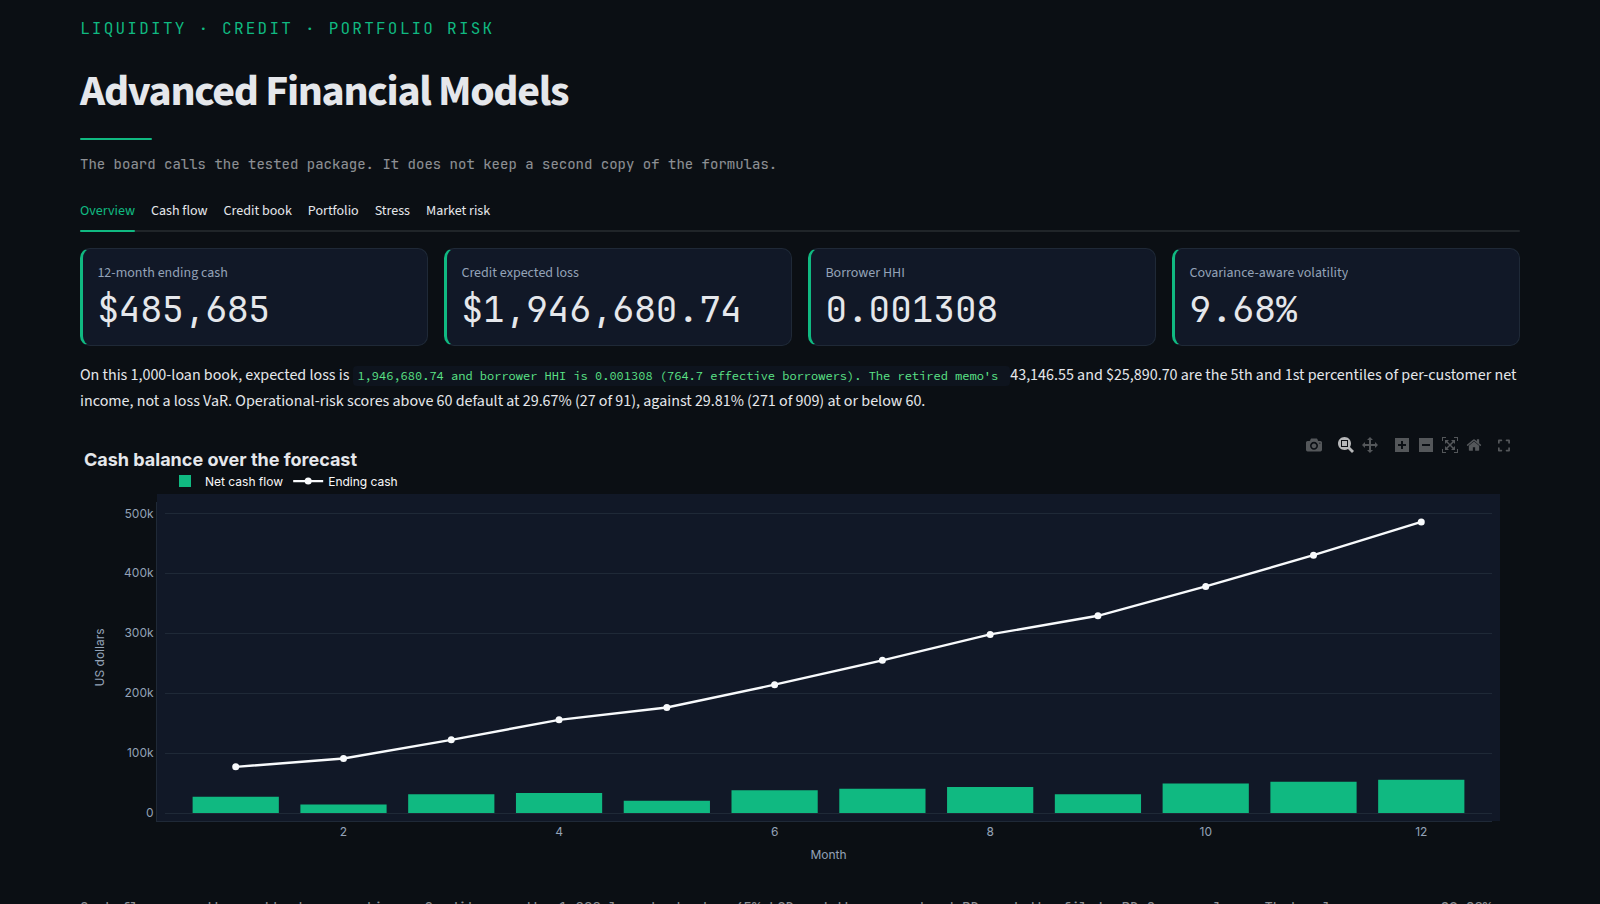
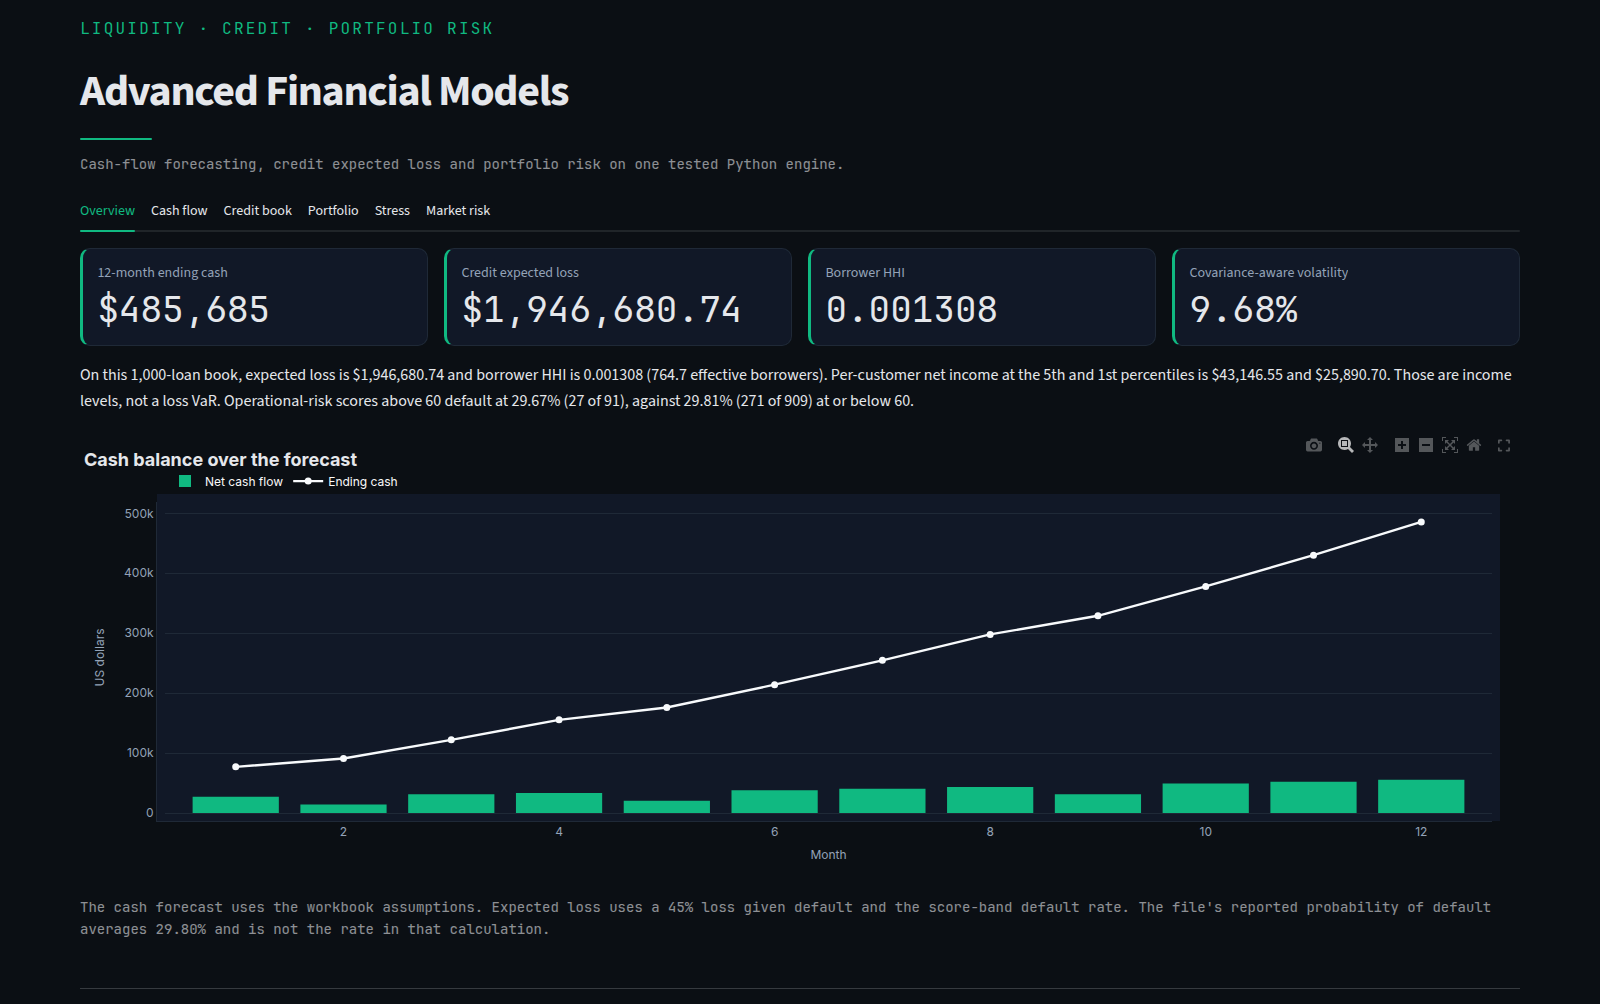
Stop Streamlit from rendering currency as math.
Escape dollar signs in dashboard markdown, and replace the developer-facing header and credit-book lines with employer copy. Recapture the dark dashboard screenshot from that run.

diff --git a/dashboard/app.py b/dashboard/app.py
@@ -67,6 +67,11 @@ def money(value: float, *, decimals: int = 0) -> str:
     return f"${value:,.{decimals}f}"
 
 
+def prose(text: str) -> str:
+    """Keep currency signs as text. Streamlit markdown treats $...$ as LaTeX."""
+    return text.replace("$", r"\$")
+
+
 def percent(value: float) -> str:
     return f"{value:.2%}"
 
@@ -134,7 +139,10 @@ def render_header() -> None:
     st.title("Advanced Financial Models")
     st.markdown('<div class="afm-rule"></div>', unsafe_allow_html=True)
     st.caption(
-        "The board calls the tested package. It does not keep a second copy of the formulas."
+        prose(
+            "Cash-flow forecasting, credit expected loss and portfolio risk "
+            "on one tested Python engine."
+        )
     )
 
 
@@ -157,12 +165,14 @@ def render_overview() -> None:
     columns[2].metric("Borrower HHI", f"{concentration.herfindahl_hirschman_index:.6f}")
     columns[3].metric("Covariance-aware volatility", percent(portfolio.volatility))
 
-    st.markdown(format_credit_book_decision(credit, concentration, audit))
+    st.markdown(prose(format_credit_book_decision(credit, concentration, audit)))
     show(cash_flow_plotly(cash), key="overview-cash")
     st.caption(
-        "Cash flow uses the workbook assumptions. Credit uses the 1,000-loan book at a 45% LGD "
-        "and the score-band PD, not the file's PD_Score column. "
-        f"That column averages {audit.average_reported_pd:.2%}."
+        prose(
+            "The cash forecast uses the workbook assumptions. Expected loss uses a 45% loss given "
+            "default and the score-band default rate. The file's reported probability of default "
+            f"averages {audit.average_reported_pd:.2%} and is not the rate in that calculation."
+        )
     )
 
 
@@ -186,7 +196,9 @@ def render_cash_flow() -> None:
     metrics[2].metric("Minimum cash", money(forecast.minimum_cash_balance))
     metrics[3].metric("Average monthly net cash flow", money(forecast.average_monthly_net_cash_flow))
     show(cash_flow_plotly(forecast), key="cash-flow-chart")
-    st.caption("NPV discounts each month at the effective monthly rate from the 10% annual assumption.")
+    st.caption(
+        prose("NPV discounts each month at the effective monthly rate from the 10% annual assumption.")
+    )
     frame = pd.DataFrame(
         {
             "Month": [period.month for period in forecast.periods],
@@ -210,8 +222,10 @@ def render_cash_flow() -> None:
 def render_credit() -> None:
     st.subheader("Credit book")
     st.caption(
-        "1,000 loans from data/portfolio_data.csv. Borrower is Customer_ID. "
-        "Expected loss uses the score-band PD."
+        prose(
+            "1,000 loans. Expected loss uses the score-band probability of default, "
+            "not the probability stored on each row."
+        )
     )
     loss_given_default = st.slider("Loss given default", 0.0, 100.0, 45.0, 1.0) / 100.0
     loans = loans_from_credit_book()
@@ -237,7 +251,7 @@ def render_credit() -> None:
         money(checked.expected_loss, decimals=2),
         help="100,000 exposure times the 15% band PD times the selected LGD.",
     )
-    st.markdown(format_credit_book_decision(summary, concentration, audit))
+    st.markdown(prose(format_credit_book_decision(summary, concentration, audit)))
     show(credit_ratings_plotly(summary, concentration), key="credit-ratings")
     rows = pd.DataFrame(
         [
@@ -270,9 +284,11 @@ def render_credit() -> None:
 def render_portfolio() -> None:
     st.subheader("Portfolio")
     st.caption(
-        "The correlation matrix is the bundled one-factor illustration for these six sleeves. "
-        "It is not an estimate from market history. Weights that do not sum to 100% are rescaled, "
-        "and the rescale is shown below."
+        prose(
+            "The correlation matrix is a one-factor illustration for these six sleeves. "
+            "It is not an estimate from market history. Weights that do not sum to 100% are rescaled, "
+            "and the rescale is shown below."
+        )
     )
     edited = st.data_editor(
         portfolio_frame(),
@@ -284,7 +300,9 @@ def render_portfolio() -> None:
     n_portfolios = st.slider("Simulated portfolios", 1_000, 20_000, 8_000, 1_000)
     weight_sum = float(edited["Weight %"].sum())
     if abs(weight_sum - 100.0) > 0.05:
-        st.warning(f"Entered weights sum to {weight_sum:.2f}%. Analysis uses weights rescaled to 100%.")
+        st.warning(
+            prose(f"Entered weights sum to {weight_sum:.2f}%. Analysis uses weights rescaled to 100%.")
+        )
     try:
         assets = assets_from_frame(edited)
         covariance = covariance_from_correlation(
@@ -365,7 +383,7 @@ def render_stress() -> None:
     st.subheader("Stress and Monte Carlo")
     left, right = st.columns(2)
     with left:
-        st.markdown("**Liquidity**")
+        st.markdown(prose("**Liquidity**"))
         revenue_multiplier = st.slider("Revenue level", 50.0, 120.0, 80.0, 5.0) / 100.0
         growth_delta = st.slider("Monthly growth shock", -10.0, 5.0, -3.0, 0.5) / 100.0
         opex_delta = st.slider("Operating-expense shock", -10.0, 30.0, 10.0, 1.0) / 100.0
@@ -392,8 +410,10 @@ def render_stress() -> None:
                 key="stress-cash",
             )
 
-        st.markdown("**Credit**")
-        st.caption("PD and LGD multipliers apply to the 1,000-loan book and are capped at 100%.")
+        st.markdown(prose("**Credit**"))
+        st.caption(
+            prose("Probability of default and loss given default are scaled on the 1,000-loan book and capped at 100%.")
+        )
         pd_multiplier = st.slider("PD multiplier", 0.5, 4.0, 1.75, 0.25)
         lgd_multiplier = st.slider("LGD multiplier", 0.5, 2.5, 1.25, 0.25)
         credit_stress = stress_credit_portfolio(
@@ -412,7 +432,7 @@ def render_stress() -> None:
         )
 
     with right:
-        st.markdown("**Terminal wealth**")
+        st.markdown(prose("**Terminal wealth**"))
         horizon = st.slider("Horizon (years)", 1, 30, 10)
         simulations = st.slider("Monte Carlo paths", 1_000, 20_000, 8_000, 1_000)
         assets = workbook_balanced_portfolio()
@@ -434,15 +454,17 @@ def render_stress() -> None:
         tails[0].metric("5th percentile", money(result.percentile_05))
         tails[1].metric("95th percentile", money(result.percentile_95))
         show(monte_carlo_plotly(result), key="monte-carlo")
-        st.caption("Loss means terminal value below the $1,000,000 starting investment.")
+        st.caption(prose("Loss means terminal value below the $1,000,000 starting investment."))
 
 
 def render_market() -> None:
     st.subheader("Market risk")
     st.caption(
-        "Upload adjusted closes, run the worked example, or download with yfinance. "
-        "The worked example is a constructed price path, not a market history. "
-        "Missing prices are dropped, not filled forward."
+        prose(
+            "Upload adjusted closes, run the worked example, or download prices. "
+            "The worked example is a constructed price path, not a market history. "
+            "Rows with a missing price are dropped."
+        )
     )
     source = st.radio(
         "Price source",
@@ -473,7 +495,9 @@ def render_market() -> None:
         prices = st.session_state.get("downloaded_prices")
 
     if prices is None:
-        st.info("Choose a price source to calculate returns, drawdown, VaR, and a rebalanced backtest.")
+        st.info(
+            prose("Choose a price source to calculate returns, drawdown, VaR, and a rebalanced backtest.")
+        )
         return
 
     try:
@@ -502,7 +526,7 @@ def render_market() -> None:
         )
     weight_total = float(sum(weights))
     if abs(weight_total - 1.0) > 1e-9:
-        st.warning(f"Weights sum to {weight_total:.2f}. Rescale them to 1.00 to run the backtest.")
+        st.warning(prose(f"Weights sum to {weight_total:.2f}. Rescale them to 1.00 to run the backtest."))
         return
 
     sample_periods = len(returns)
@@ -519,8 +543,10 @@ def render_market() -> None:
     )
     if sample_periods < 60:
         st.caption(
-            f"This sample has {sample_periods} returns. "
-            "The annualization factor stays on the sample length unless you change periods per year."
+            prose(
+                f"This sample has {sample_periods} returns. "
+                "The annualization factor stays on the sample length unless you change periods per year."
+            )
         )
     portfolio_returns = portfolio_return_series(returns, weights)
     performance = performance_summary(
@@ -571,10 +597,12 @@ def render_market() -> None:
         },
     )
     st.caption(
-        "VaR and expected shortfall are per-period loss fractions from the worst "
-        "ceil((1 − 95%) × n) returns. A negative loss means that point was a gain. "
-        "Sharpe and Sortino use a 3% risk-free rate on the same per-period threshold. "
-        "The backtest charges 5 bps of one-way turnover."
+        prose(
+            "VaR and expected shortfall are per-period loss fractions from the worst "
+            "ceil((1 − 95%) × n) returns. A negative loss means that point was a gain. "
+            "Sharpe and Sortino use a 3% risk-free rate on the same per-period threshold. "
+            "The backtest charges 5 bps of one-way turnover."
+        )
     )
 
 
@@ -597,5 +625,5 @@ with market_tab:
 
 st.divider()
 st.caption(
-    "Educational portfolio project. Not investment, lending, accounting, or financial advice."
+    prose("Educational portfolio project. Not investment, lending, accounting, or financial advice.")
 )

diff --git a/src/financial_models/loan_book.py b/src/financial_models/loan_book.py
@@ -161,7 +161,7 @@ def format_credit_book_decision(
     concentration: CreditConcentrationSummary,
     audit: CreditBookMemoAudit,
 ) -> str:
-    """One decision line: library EL and HHI, plus the memo corrections."""
+    """Expected loss, concentration, and the income figures that are not a loss VaR."""
     above = audit.default_rate_operational_risk_above_60
     below = audit.default_rate_operational_risk_at_or_below_60
     return (
@@ -169,9 +169,9 @@ def format_credit_book_decision(
         f"${summary.total_expected_loss:,.2f} and borrower HHI is "
         f"{concentration.herfindahl_hirschman_index:.6f} "
         f"({concentration.effective_borrower_count:.1f} effective borrowers). "
-        f"The retired memo's ${audit.net_income_p05:,.2f} and "
-        f"${audit.net_income_p01:,.2f} are the 5th and 1st percentiles of "
-        f"per-customer net income, not a loss VaR. Operational-risk scores "
+        f"Per-customer net income at the 5th and 1st percentiles is "
+        f"${audit.net_income_p05:,.2f} and ${audit.net_income_p01:,.2f}. "
+        f"Those are income levels, not a loss VaR. Operational-risk scores "
         f"above 60 default at {above:.2%} "
         f"({audit.default_count_operational_risk_above_60} of "
         f"{audit.count_operational_risk_above_60}), against {below:.2%} "

diff --git a/tests/test_credit_book.py b/tests/test_credit_book.py
@@ -78,6 +78,7 @@ class CreditBookAdapterTests(unittest.TestCase):
         self.assertIn("$43,146.55", line)
         self.assertIn("$25,890.70", line)
         self.assertIn("not a loss VaR", line)
+        self.assertNotIn("retired memo", line.lower())
         self.assertIn("29.67%", line)
         self.assertIn("29.81%", line)
         self.assertNotIn("2.5", line)

diff --git a/README.md b/README.md
@@ -18,7 +18,7 @@ The baseline book is a 12-month liquidity forecast, a score-band expected-loss m
   <img src="docs/images/efficient-frontier.png" alt="Sampled long-only portfolios and efficient frontier" width="100%">
 </p>
 
-Figures above are written by `python examples/render_charts.py`. On the workbook assumptions the forecast ends at **$485,685** cash, with an NPV of monthly net cash flows of **$410,751**. The 1,000-loan book has **$68,121,079.07** of exposure and **$1,946,680.74** of expected loss at a 45% LGD. The covariance-aware balanced mix has **8.64%** expected return, **9.68%** volatility, and a Sharpe ratio of **0.58**.
+On the workbook assumptions the forecast ends at **$485,685** cash, with an NPV of monthly net cash flows of **$410,751**. The 1,000-loan book has **$68,121,079.07** of exposure and **$1,946,680.74** of expected loss at a 45% LGD. The covariance-aware balanced mix has **8.64%** expected return, **9.68%** volatility, and a Sharpe ratio of **0.58**. `python examples/render_charts.py` writes these charts.
 
 ## Architecture
 
@@ -81,13 +81,13 @@ The Market risk tab can then download adjusted closes. It also runs a short cons
 | `cash_flow` | Monthly revenue, operating expenses, rent, debt service, and CapEx. NPV uses the effective monthly rate from the annual discount assumption. |
 | `credit_risk` | Score-band PD, LGD, and expected loss = exposure × PD × LGD. Ratings follow the workbook: High at PD ≥ 20%, Medium at PD ≥ 7%. |
 | `credit_concentration` | Borrower HHI, effective borrower count, top-N share, and segment stress attribution. |
-| `loan_book` | Loads `data/portfolio_data.csv` into the loan schema. Expected loss uses the score-band PD, not the file's `PD_Score` column. |
+| `loan_book` | Loads the 1,000-loan CSV. Expected loss uses the score-band probability of default, not the probability stored on each row. |
 | `portfolio` | Excel-comparable zero-correlation volatility, √Σ(weight × volatility)². |
 | `advanced_portfolio` | Correlation checks, covariance risk wᵀΣw, long-only simulation, and a sampled frontier. |
 | `stress_testing` | Cash-flow and credit shocks, with PD and LGD capped at 100%. Terminal wealth is a lognormal Monte Carlo matched to the covariance-aware mean and variance. |
-| `market_data` | Simple returns, drawdown, Sharpe, Sortino, historical VaR and expected shortfall, and a fixed-weight backtest with one-way turnover costs. Missing prices are dropped, not filled forward. |
+| `market_data` | Simple returns, drawdown, Sharpe, Sortino, historical VaR and expected shortfall, and a fixed-weight backtest with one-way turnover costs. Rows with a missing price are dropped. |
 | `theme`, `charts` | One dark theme for the matplotlib figures and the Plotly board. |
-| `dashboard/app.py` | Board over the functions above. |
+| `dashboard/app.py` | Streamlit board for cash flow, credit, portfolio risk, stress, and market history. |
 
 The bundled six-asset correlation matrix is a one-factor illustration. It is not a historical estimate. On that matrix the balanced portfolio's volatility is **9.68%**, above the **6.82%** zero-correlation figure, because the equity sleeves move together.
 
